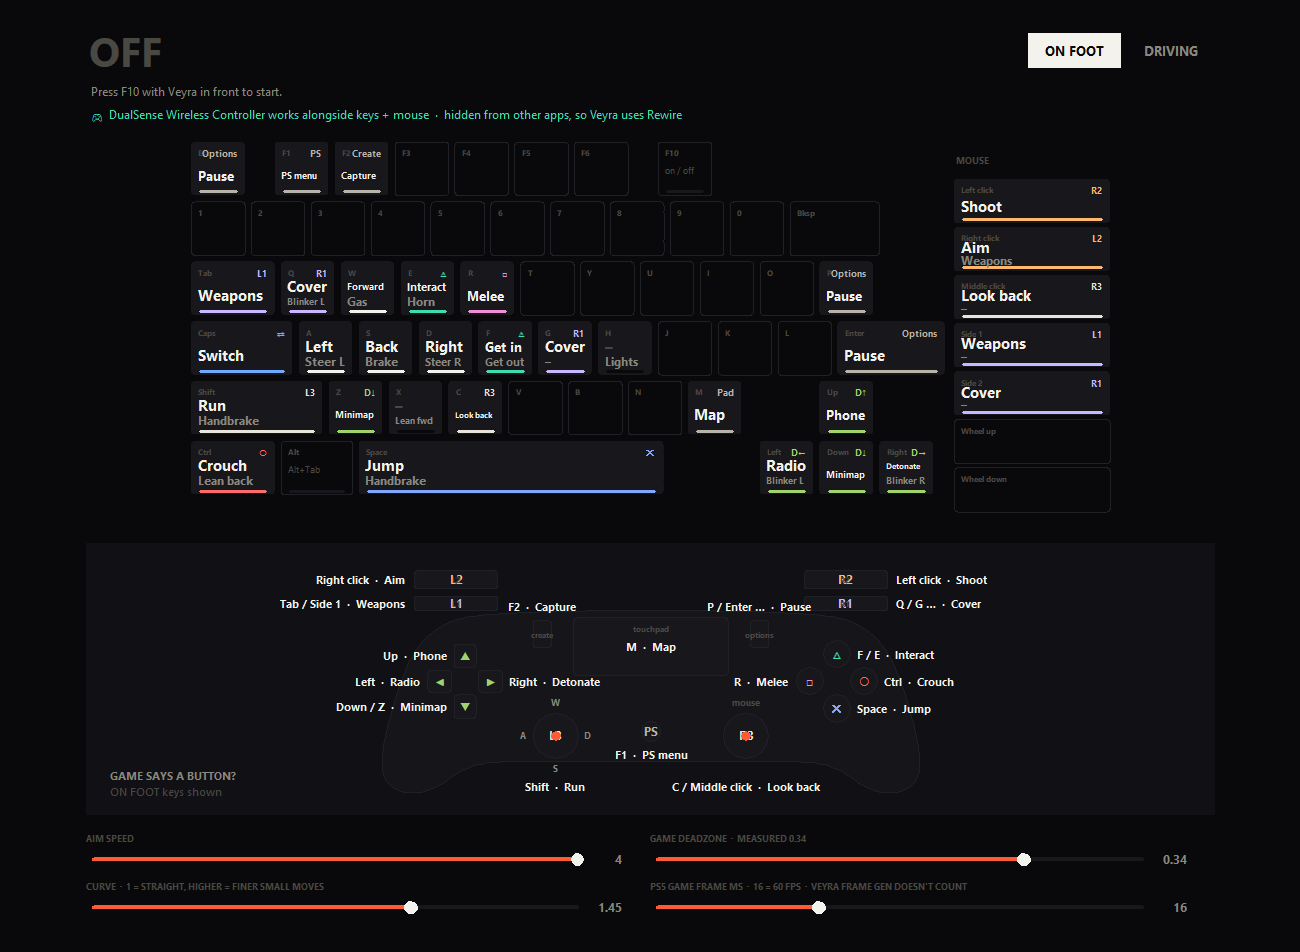
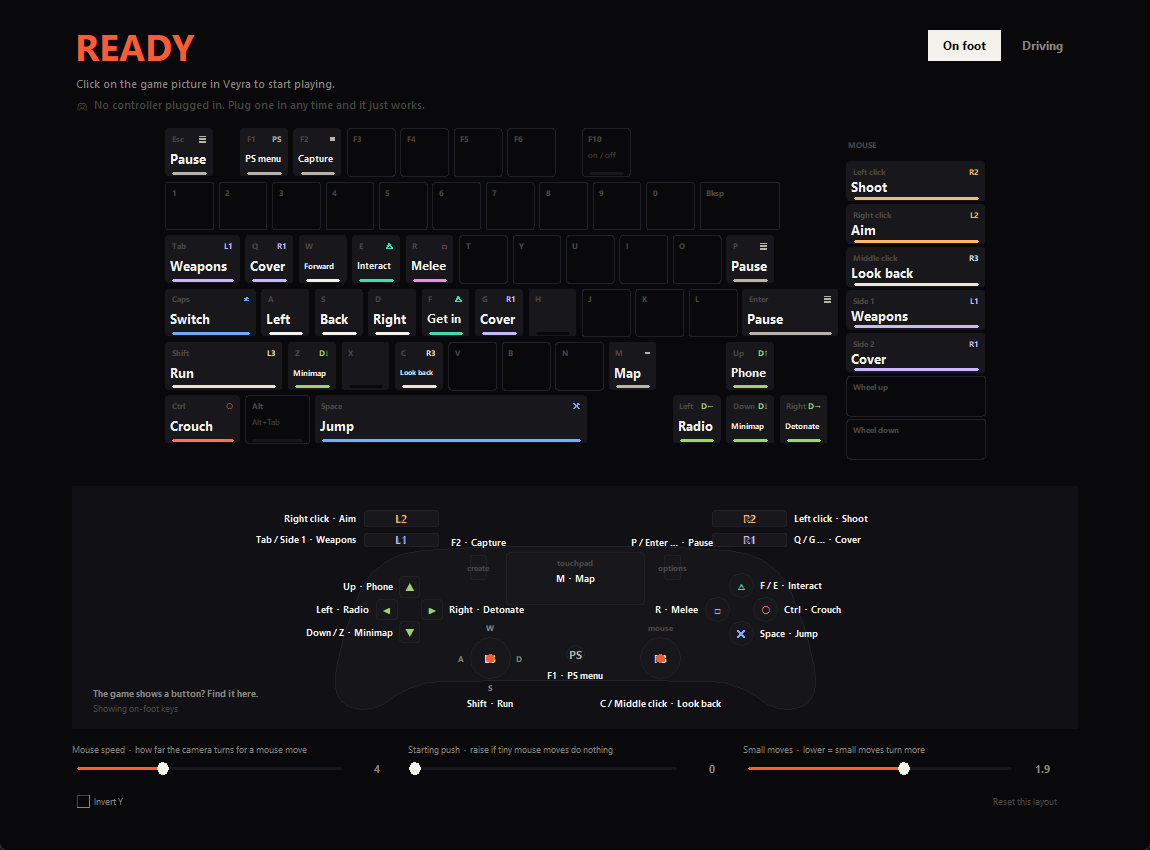
Xbox mode (virtual Xbox controller, Xbox buttons on screen, asks once), special ability on V, one-click installer, setup file for AI assistants

diff --git a/README.md b/README.md
@@ -3,7 +3,7 @@
 </p>
 
 <p align="center">
-  <b>Play your PS5 with a keyboard and mouse, from your PC, over Remote Play.</b><br>
+  <b>Play your PS5 or Xbox with a keyboard and mouse, from your PC, over Remote Play or cloud gaming.</b><br>
   No capture card, no adapter, no extra hardware.
 </p>
 
@@ -17,8 +17,12 @@
 
 ---
 
-Rewire turns your keyboard and mouse into a virtual PlayStation controller. Your Remote Play app picks
-it up like a normal pad and sends it to the console. You stay on your desktop the whole time.
+Rewire turns your keyboard and mouse into a virtual PlayStation or Xbox controller. Your Remote Play or
+cloud gaming app picks it up like a normal pad and sends it to the console. You stay on your desktop the
+whole time. It asks which console on first start.
+
+**Install:** download the code, double-click `install.bat`, then open Rewire from the desktop.
+**Have an AI assistant?** Point it at this repo and tell it to follow [SETUP-FOR-AI.md](SETUP-FOR-AI.md).
 
 It ships with layouts modelled on GTA V's PC controls, mapped onto GTA 6's PS5 buttons: one layout
 on foot, one for driving. It switches between them when you get in and out of a car.
@@ -27,8 +31,8 @@ on foot, one for driving. It switches between them when you get in and out of a 
 
 <p align="center"><img src="docs/overview.png" alt="Rewire: both layouts on the keyboard, controller map below" width="100%"></p>
 
-**Both layouts on one screen.** Every key shows what it does on foot (top line) and in a car (bottom
-line), the one you're using now in bright. "Jump", "Run", "Get in", not "Cross" or "L3". The colour bar
+**Plain words on every key.** Each key shows what it does in the layout you're looking at (on foot or
+driving). "Jump", "Run", "Get in", not "Cross" or "L3". The colour bar
 and corner symbol show the PS button underneath, in PlayStation's own colours: blue ✕, red ○, pink □,
 green △.
 
@@ -48,10 +52,13 @@ between the on-foot and driving layouts, the way F does when you enter a car.
   into the same virtual controller, rumble included. Grab the pad for a cutscene, the mouse for a shootout,
   no switching or unplugging. [HidHide](https://github.com/nefarius/HidHide) hides the real pad from other
   apps while Rewire runs, so the Remote Play app only sees one controller, and gives it back when you close Rewire.
-- **Mouse aim that feels like a mouse.** Raw mouse input turns into stick tilt, tuned against GTA 6's
-  measured stick response: its deadzone, its curve, and the camera ramp it adds even with acceleration at 0.
-  Rewire pushes through that ramp at the start of a flick, so a fast swipe turns as far as a slow one, and
-  slows down the moment your hand does. Under 2 ms of added delay.
+- **Mouse aim that feels like a mouse.** Raw mouse speed turns into stick tilt, glided so it's smooth,
+  and it stops the moment your hand does. Three plain sliders: mouse speed, starting push, small moves.
+  Under 2 ms of added delay. (A controller stick has a top turning speed set by the game; past it, a
+  faster swipe can't turn faster.)
+- **PlayStation or Xbox.** A virtual DualShock 4 for PS Remote Play, Veyra and Chiaki, or a virtual Xbox
+  controller for the Xbox app and xbox.com/play. The whole screen switches to that console's buttons.
+- **Special ability on V.** Both stick clicks at once, for games that put an ability there.
 - **Two layouts, switched automatically.** Rewire watches the game picture for the vehicle-name card GTA
   shows when you get in a car or on a bike, and swaps WASD from walking to gas, brake and steering. Caps
   Lock swaps by hand (after a crash or a ragdoll out of the car).
@@ -79,6 +86,8 @@ Remote Play.
 
 ## Setup
 
+The quick way: run `install.bat` (it does all of this). By hand:
+
 1. **Install [ViGEmBus](https://github.com/nefarius/ViGEmBus/releases)**, the virtual controller driver.
    It needs one admin prompt.
 2. **Optional, to use your controller alongside keyboard + mouse:** install
@@ -100,7 +109,8 @@ Remote Play.
 | **Alt+Tab** | Leave. Everything is released and your cursor comes back |
 | **Caps Lock** | Switch between the on-foot and driving layouts by hand (it also switches by itself) |
 | **F7** | First-person trick, in the driver's seat: phone up, close it, then spam the touchpad (needs Touch Pad Button set to Camera in GTA's settings) |
-| **F8 / F9** | Aim tests for tuning: stand still and keep your hands off for ~30 s. Results go to `calib.log` |
+| **V** | Special ability (both sticks clicked) |
+| **Ctrl+F8 / Ctrl+F9** | Aim tests for tuning: stand still and keep your hands off for ~30 s. Results go to `calib.log` |
 | **Ctrl+Alt+Del, then Esc** | Emergency: frees the cursor whatever happens |
 
 > Without HidHide, unplug your real controller while you play: most Remote Play apps only listen to one pad.

diff --git a/SETUP-FOR-AI.md b/SETUP-FOR-AI.md
@@ -1,0 +1,53 @@
+# Rewire setup, for an AI assistant
+
+You are helping someone install Rewire, a Windows tool that turns keyboard + mouse into a virtual
+PlayStation (DualShock 4) or Xbox (360) controller for Remote Play / cloud gaming apps. Follow these steps in
+order and stop to ask the user only where it says ASK.
+
+## 1. Check the machine
+
+- Windows 10 or 11 only.
+- `python --version` must be 3.10 or newer. If missing: `winget install -e --id Python.Python.3.12`,
+  then open a new terminal so PATH updates.
+
+## 2. Get the code
+
+```
+git clone https://github.com/prettierweb/rewire.git
+cd rewire
+```
+
+## 3. Drivers (admin prompts the user must accept)
+
+- Required: `winget install -e --id ViGEm.ViGEmBus` (virtual controller driver).
+- Optional, ASK first: `winget install -e --id Nefarius.HidHide`. Only needed if they want to use their
+  real controller at the same time as keyboard + mouse. After installing, they must unplug and replug the
+  controller once.
+
+## 4. Packages and shortcut
+
+```
+python -m pip install -r requirements.txt
+```
+
+Then make a desktop shortcut to `Rewire.bat` (or just run `install.bat`, which does steps 1, 3 and 4).
+
+## 5. First run
+
+- Run `Rewire.bat`. On first start it asks PlayStation or Xbox (saved in `config.json` as `console`).
+- PlayStation: works with Veyra, Chiaki / chiaki-ng and Sony's PS Remote Play.
+- Xbox: works with the Xbox app (cloud gaming and remote play) and xbox.com/play in Edge, Chrome,
+  Firefox or Brave.
+- Another app: add its `.exe` name (lower case) to `targets` in `config.json`.
+
+## 6. Using it
+
+- F10 turns it on. Click into the game window to start. Alt+Tab or F10 stops it.
+- Rewire only acts while it is on AND the game app is the window in front, so it never touches other apps.
+- Sliders: Mouse speed, Starting push (raise if tiny mouse moves do nothing), Small moves (lower = small
+  moves turn more).
+
+## Things not to do
+
+- Don't change Windows settings, startup entries or file associations. Rewire needs none.
+- If a controller ever stays hidden after a crash, run `unhide.bat`.
